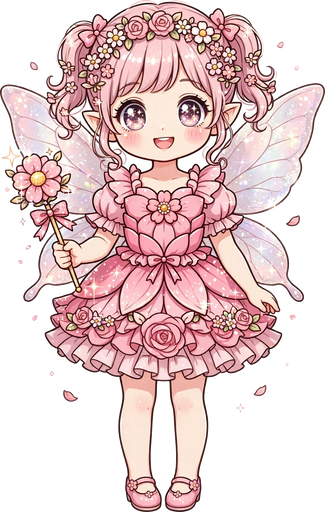
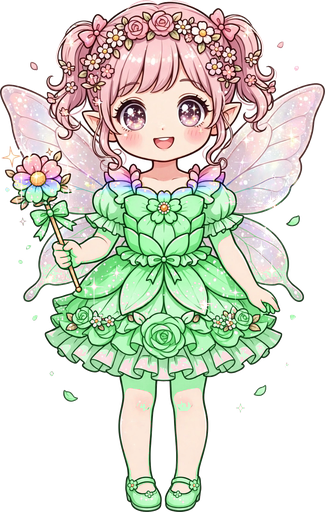
Attribute-consistent attacks and colors

diff --git a/index.html b/index.html
@@ -334,10 +334,10 @@ const CHARS = [
  {id:"fairy_flower", name:"フラワーフェアリー", attr:"forest", atk:26, art:()=>imgArt("fairy-flower.png"), passive:"かいふくオーブの こうか +50%", skill:{name:"はなびらヒール", desc:"HP 160 かいふく", turns:4, type:"heal", power:160}},
  {id:"fairy_star", name:"スターフェアリー", attr:"water", atk:28, art:()=>imgArt("fairy-star.png"), passive:"かいふくオーブの こうか +50%", skill:{name:"ほしの ひかり", desc:"みずの ダメージ 300", turns:4, type:"dmg", power:300}},
  {id:"phoenix", name:"フェニックス", attr:"fire", atk:48, art:()=>imgArt("phoenix.png"), passive:"コンボの いりょく +35%", skill:{name:"ほうおうの炎", desc:"ひの ダメージ 480 と HP 50 かいふく", turns:5, type:"dmgheal", power:480, heal:50}},
- {id:"dragon_sea", name:"エンシェントドラゴン", attr:"water", atk:52, art:()=>imgArt("dragon-water.png","hue-rotate(-28deg) saturate(1.35) brightness(.9)"), passive:"コンボの いりょく +35%", skill:{name:"おおなみ", desc:"みずの ダメージ 520", turns:6, type:"dmg", power:520}},
- {id:"dragon_change_forest", name:"エメラルドドラゴン", attr:"forest", atk:38, art:()=>imgArt("dragon-forest.png","hue-rotate(16deg) saturate(1.3)"), passive:"コンボの いりょく +25%", skill:{name:"へんげの じゅつ・もり", desc:"あかオーブ 全部 → みどり に かえる", turns:5, type:"change", from:"fire", to:"forest"}},
- {id:"fairy_change_water", name:"サファイアフェアリー", attr:"water", atk:36, art:()=>imgArt("fairy-star.png","hue-rotate(28deg) saturate(1.15)"), passive:"コンボの いりょく +25%", skill:{name:"へんげの こな・みず", desc:"みどりオーブ 全部 → あお に かえる", turns:5, type:"change", from:"forest", to:"water"}},
- {id:"dragon_change_fire", name:"ルビードラゴン", attr:"fire", atk:40, art:()=>imgArt("dragon-fire.png","hue-rotate(-14deg) saturate(1.35)"), passive:"コンボの いりょく +25%", skill:{name:"へんげの じゅつ・ほのお", desc:"あおオーブ 全部 → あか に かえる", turns:5, type:"change", from:"water", to:"fire"}},
+ {id:"dragon_sea", name:"エンシェントドラゴン", attr:"water", atk:52, art:()=>imgArt("dragon-water.png","saturate(1.3) brightness(.85)"), passive:"コンボの いりょく +35%", skill:{name:"おおなみ", desc:"みずの ダメージ 520", turns:6, type:"dmg", power:520}},
+ {id:"dragon_change_forest", name:"エメラルドドラゴン", attr:"forest", atk:38, art:()=>imgArt("dragon-forest.png","hue-rotate(-12deg) saturate(1.35)"), passive:"コンボの いりょく +25%", skill:{name:"へんげの じゅつ・もり", desc:"あかオーブ 全部 → みどり に かえる", turns:5, type:"change", from:"fire", to:"forest"}},
+ {id:"fairy_change_water", name:"サファイアフェアリー", attr:"water", atk:36, art:()=>imgArt("fairy-star.png","hue-rotate(-16deg) saturate(1.3)"), passive:"コンボの いりょく +25%", skill:{name:"へんげの こな・みず", desc:"みどりオーブ 全部 → あお に かえる", turns:5, type:"change", from:"forest", to:"water"}},
+ {id:"dragon_change_fire", name:"ルビードラゴン", attr:"fire", atk:40, art:()=>imgArt("dragon-fire.png","hue-rotate(14deg) saturate(1.3)"), passive:"コンボの いりょく +25%", skill:{name:"へんげの じゅつ・ほのお", desc:"あおオーブ 全部 → あか に かえる", turns:5, type:"change", from:"water", to:"fire"}},
 ];
 function imgArt(src, filter){ return '<img src="'+src+'" alt=""'+(filter?' style="filter:'+filter+'"':"")+">"; }
 const charById = id => CHARS.find(c=>c.id===id);
@@ -736,6 +736,10 @@ document.querySelectorAll(".player-btn").forEach(b=>b.onclick=()=>{ player=b.dat
 
 /* ================= バトル ================= */
 const N=7, TYPES=["fire","water","forest","heal"];
+/* 属性相性（攻撃側→防御側）：ひ→もり→みず→ひ の三すくみで 強い×1.6／弱い×0.6。
+   オーブ攻撃とスキル攻撃は必ずこの表を共有し、攻撃は常に「キャラ自身の
+   属性」で行う（水キャラの攻撃が森になるような食い違いを防ぐ） */
+const ATTR_MULT={fire:{water:.6,forest:1.6},water:{forest:.6,fire:1.6},forest:{fire:.6,water:1.6}};
 /* オーブの紋様：パズドラ風に、濃い属性色の彫り込み紋様＋内側の
    明るいハイライトで凝った立体表現にする（白シルエットは廃止） */
 const ORB_ICON={ fire:'<svg viewBox="0 0 48 48"><path d="M24 4 C30 14 38 18 35 30 C33 37 28 40 24 40 C20 40 15 37 13 30 C10 18 18 14 24 4Z" fill="#c81e06"/><path d="M13 27 C15 29.5 16.5 30.5 16 33 C15.7 34.6 14.6 35.3 13.2 35.3 C11.8 35.3 10.7 34.5 10.5 33 C10.2 30.6 11.3 28.8 13 27Z" fill="#c81e06" opacity=".85"/><path d="M35 27 C37 29.5 38.5 30.5 38 33 C37.7 34.6 36.6 35.3 35.2 35.3 C33.8 35.3 32.7 34.5 32.5 33 C32.2 30.6 33.3 28.8 35 27Z" fill="#c81e06" opacity=".85"/><path d="M24 16 C27.5 21 30.5 23 29.3 28.6 C28.6 31.6 26.4 33 24 33 C21.6 33 19.4 31.6 18.7 28.6 C17.5 23 20.5 21 24 16Z" fill="#ff9a3c"/><path d="M24 25 C25.8 27.4 27 28.6 26.5 30.8 C26.2 32.2 25.2 32.8 24 32.8 C22.8 32.8 21.8 32.2 21.5 30.8 C21 28.6 22.2 27.4 24 25Z" fill="#ffe9a8"/></svg>',
@@ -916,8 +920,7 @@ async function resolveBoard(){
   const total=B.acc.reduce((a,b)=>a+b,0);
   if(total>0){
     await wait(150);
-    const mult={fire:{water:.6,forest:1.6},water:{forest:.6,fire:1.6},forest:{fire:.6,water:1.6}};
-    let dmg=0; save().party.forEach((id,idx)=>{ const c=charById(id); const m=(mult[c.attr]&&mult[c.attr][B.enemy.attr])||1; dmg+=B.acc[idx]*m; });
+    let dmg=0; save().party.forEach((id,idx)=>{ const c=charById(id); const m=(ATTR_MULT[c.attr]&&ATTR_MULT[c.attr][B.enemy.attr])||1; dmg+=B.acc[idx]*m; });
     const attackers=[];
     save().party.forEach((id,idx)=>{ if(B.acc[idx]>0)attackers.push(charById(id).attr); });
     for(let j=0;j<attackers.length;j++){
@@ -1100,7 +1103,16 @@ function useSkill(i){
     return;
   }
   B.charges[i]=0; skillSE();
-  if(sk.type==="dmg"||sk.type==="dmgheal"){ B.enemyHp-=sk.power; }
+  if(sk.type==="dmg"||sk.type==="dmgheal"){
+    /* スキル攻撃もオーブ攻撃と同じく「キャラ自身の属性」で攻撃する：
+       属性相性を適用し、自分の属性のエフェクトとダメージ表示を出す。
+       以前は属性なしの固定ダメージで、攻撃の属性が見えなかった */
+    const m=(ATTR_MULT[c.attr]&&ATTR_MULT[c.attr][B.enemy.attr])||1;
+    const dmg=Math.round(sk.power*m);
+    B.enemyHp-=dmg;
+    attackEffect(c.attr);
+    showDmgPop(dmg);
+  }
   if(sk.type==="heal"){ B.partyHp=Math.min(PARTY_HP,B.partyHp+sk.power); }
   if(sk.type==="dmgheal"&&sk.heal){ B.partyHp=Math.min(PARTY_HP,B.partyHp+sk.heal); }
   renderBattle();

diff --git a/sw.js b/sw.js
@@ -1,4 +1,4 @@
-const CACHE_NAME = 'yuiharuka-puzzle-v22';
+const CACHE_NAME = 'yuiharuka-puzzle-v23';
 const ASSETS = [
   './',
   'index.html',
